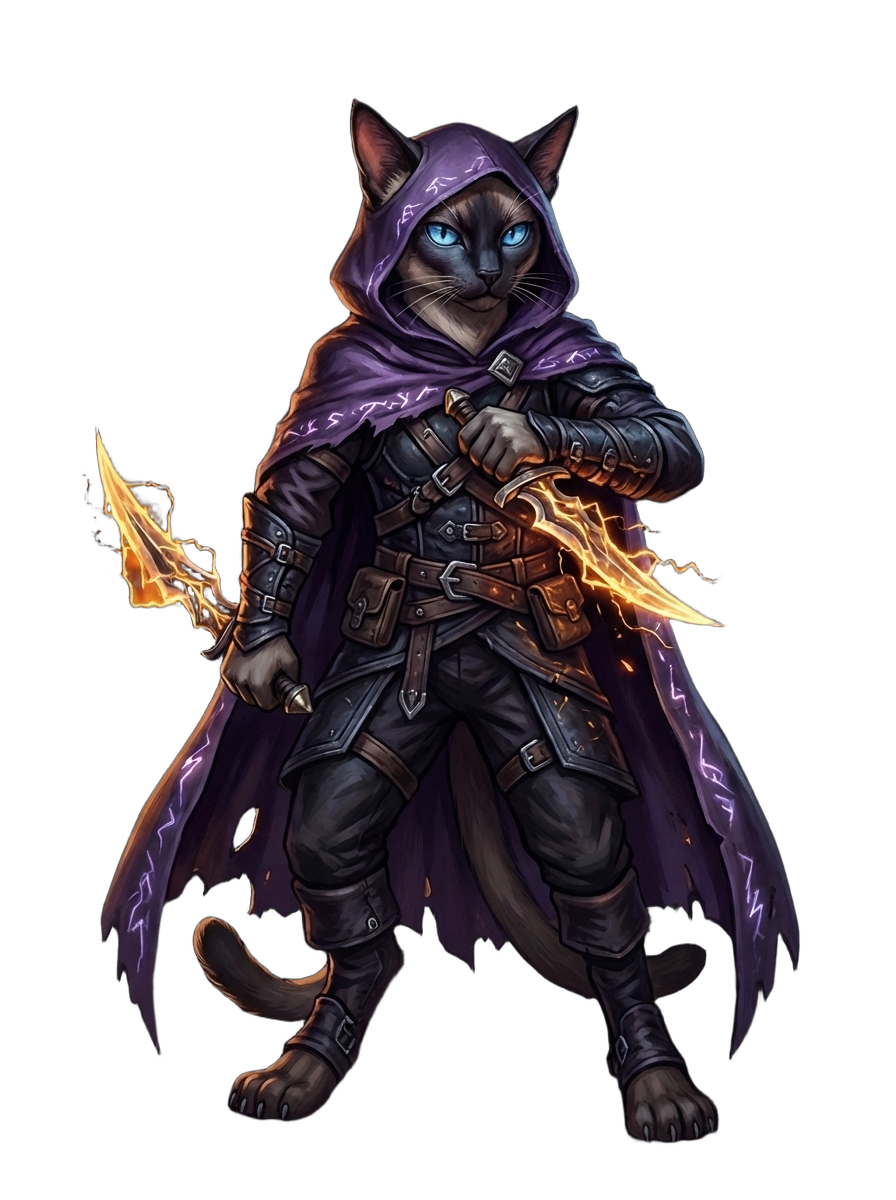
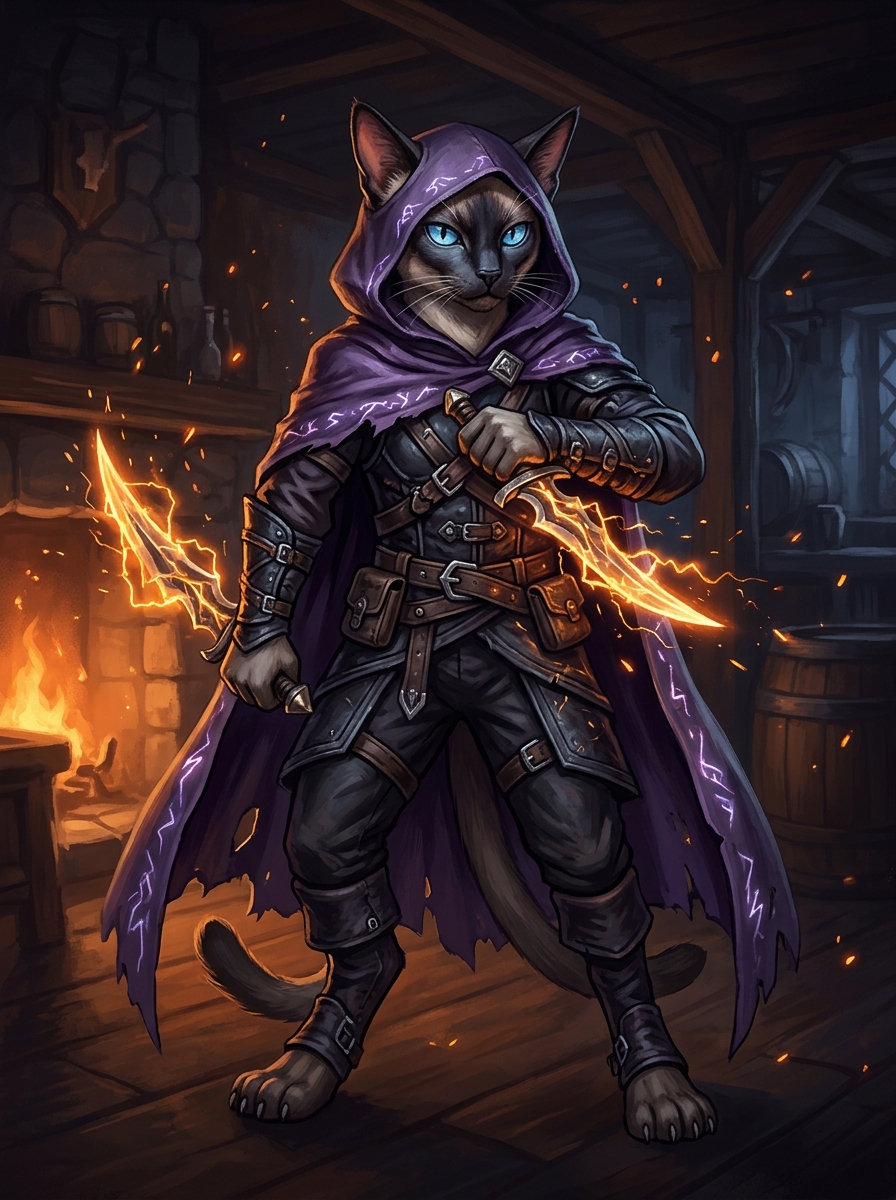
fix(hud): cat cutouts only in live battle (D-037)
Restore studio-background portraits for forms/lobby/load. Keep RGBA
cutouts under cat-heroes/battle/ and wire them only through
catHeroBattleArt on fight HUD. Lock the rule in DECISION-LOG + §6.

diff --git a/client/web-hud/public/app.js b/client/web-hud/public/app.js
@@ -2727,7 +2727,10 @@ const CAT_SHEET_NAMES = {
   shop_support_water_b: "Прилив силы",
 };
 
-/** Full-body portraits — wiki §1.0 / media/cat-heroes (12/12). */
+/**
+ * Full-body portraits — wiki §1.0 / media/cat-heroes (12/12).
+ * Default path keeps studio background (forms/lobby/load). Battle cutouts: D-037.
+ */
 const CAT_HERO_ART = {
   shop_tank_stone_a: "/stitch-assets/cat-heroes/tank-a.png",
   shop_tank_stone_b: "/stitch-assets/cat-heroes/tank-b.png",
@@ -2744,6 +2747,25 @@ const CAT_HERO_ART = {
   starter_tank_stone: "/stitch-assets/cat-heroes/tank-a.png",
   starter_fighter_fire: "/stitch-assets/cat-heroes/fighter-a.png",
   starter_support_water: "/stitch-assets/cat-heroes/support-a.png",
+};
+
+/** Transparent cutouts — ONLY live fight HUD (practice_fight / pvp_fight / battle). D-037. */
+const CAT_HERO_BATTLE_ART = {
+  shop_tank_stone_a: "/stitch-assets/cat-heroes/battle/tank-a.png",
+  shop_tank_stone_b: "/stitch-assets/cat-heroes/battle/tank-b.png",
+  shop_fighter_fire_a: "/stitch-assets/cat-heroes/battle/fighter-a.png",
+  shop_fighter_fire_b: "/stitch-assets/cat-heroes/battle/fighter-b.png",
+  shop_assassin_bolt_a: "/stitch-assets/cat-heroes/battle/assassin-a.png",
+  shop_assassin_bolt_b: "/stitch-assets/cat-heroes/battle/assassin-b.png",
+  shop_ranger_grass_a: "/stitch-assets/cat-heroes/battle/ranger-a.png",
+  shop_ranger_grass_b: "/stitch-assets/cat-heroes/battle/ranger-b.png",
+  shop_mage_fire_a: "/stitch-assets/cat-heroes/battle/mage-a.png",
+  shop_mage_ice_b: "/stitch-assets/cat-heroes/battle/mage-b.png",
+  shop_support_water_a: "/stitch-assets/cat-heroes/battle/support-a.png",
+  shop_support_water_b: "/stitch-assets/cat-heroes/battle/support-b.png",
+  starter_tank_stone: "/stitch-assets/cat-heroes/battle/tank-a.png",
+  starter_fighter_fire: "/stitch-assets/cat-heroes/battle/fighter-a.png",
+  starter_support_water: "/stitch-assets/cat-heroes/battle/support-a.png",
 };
 
 const CAT_HERO_BLURB = {
@@ -2763,6 +2785,11 @@ const CAT_HERO_BLURB = {
 
 function catHeroArt(templateId) {
   return CAT_HERO_ART[templateId] || null;
+}
+
+/** No-background sprite for live battle boards only (D-037). */
+function catHeroBattleArt(templateId) {
+  return CAT_HERO_BATTLE_ART[templateId] || catHeroArt(templateId);
 }
 const HOME_SLOT_PIN = {
   helm: "is-tl",
@@ -6094,10 +6121,14 @@ function renderPracticeFight() {
       if (!u) return;
       const tid = unitTemplateId(u);
       const hero = practiceHeroByTemplate(tid);
-      const art = catHeroArt(tid);
+      const art = catHeroBattleArt(tid);
       if (img && art) {
         img.src = art;
         img.alt = hero?.name || tid;
+      }
+      if (img) {
+        img.classList.add("mf-battle-cutout");
+        card.classList.add("mf-battle-unit--cutout");
       }
       if (nameEl) nameEl.textContent = hero?.short || CAT_SHEET_NAMES[tid] || tid;
       const seeSh = canSeeUnitShield(u);
@@ -6199,15 +6230,15 @@ function pvpUnitCard(u, foe, cleansedIds = []) {
   const element = CAT_ELEMENT_RU[u.element] || u.element || "";
   const name = catSheetName({ templateId: unitTemplateId(u), catId: u.id });
   const pct = u.maxHp > 0 ? Math.max(0, Math.min(100, (u.hp / u.maxHp) * 100)) : 0;
-  const art = catHeroArt(unitTemplateId(u)) || catHeroArt(u.id);
+  const art = catHeroBattleArt(unitTemplateId(u)) || catHeroBattleArt(u.id);
   const seeSh = canSeeUnitShield(u);
   const hpLine = u.alive
     ? seeSh && u.shield > 0
       ? `${u.hp} / ${u.maxHp} +${u.shield}`
       : `${u.hp} / ${u.maxHp}`
     : "КОТИК ОТДЫХАЕТ";
-  li.className = u.alive ? "" : "mf-unit-dead";
-  li.innerHTML = `${art ? `<figure class="mf-unit-frame"><img alt="" src="${art}" class="${u.alive ? "" : "mf-unit-dim"}"/><div class="mf-fatality" ${u.alive ? "hidden" : ""}><span>КОТИК ОТДЫХАЕТ</span></div><div class="mf-status-row">${statusIconsHtml(u.alive ? unitStatusList(u) : [], { cleansed: cleansedIds })}</div></figure>` : ""}<div><b>${name}</b><small>${element}${role ? " · " + role : ""}</small><em class="${u.alive ? "" : "mf-fatality-inline"}">${hpLine}</em><div class="mf-bars"><div class="mf-bar mf-bar--hp"><i style="width:${pct}%"></i></div>${seeSh && u.shield > 0 && u.alive ? `<div class="mf-bar mf-bar--shield"><i style="width:${Math.min(100, (u.shield / Math.max(u.maxHp, 1)) * 100)}%"></i></div>` : ""}</div></div>`;
+  li.className = (u.alive ? "" : "mf-unit-dead") + " mf-battle-unit--cutout";
+  li.innerHTML = `${art ? `<figure class="mf-unit-frame"><img alt="" src="${art}" class="mf-battle-cutout ${u.alive ? "" : "mf-unit-dim"}"/><div class="mf-fatality" ${u.alive ? "hidden" : ""}><span>КОТИК ОТДЫХАЕТ</span></div><div class="mf-status-row">${statusIconsHtml(u.alive ? unitStatusList(u) : [], { cleansed: cleansedIds })}</div></figure>` : ""}<div><b>${name}</b><small>${element}${role ? " · " + role : ""}</small><em class="${u.alive ? "" : "mf-fatality-inline"}">${hpLine}</em><div class="mf-bars"><div class="mf-bar mf-bar--hp"><i style="width:${pct}%"></i></div>${seeSh && u.shield > 0 && u.alive ? `<div class="mf-bar mf-bar--shield"><i style="width:${Math.min(100, (u.shield / Math.max(u.maxHp, 1)) * 100)}%"></i></div>` : ""}</div></div>`;
   if (foe) li.dataset.foe = "1";
   return li;
 }

diff --git a/client/web-hud/public/styles.css b/client/web-hud/public/styles.css
@@ -760,6 +760,22 @@ body.mythfel-login .mythfel-logout {
 .mf-bar--hp i { background: linear-gradient(90deg, #4caf7a, #89d98c); }
 .mf-bar--shield i { background: linear-gradient(90deg, #5b8def, #9ec1ff); }
 .mf-unit-frame { position: relative; }
+/* D-037: transparent cutouts only on live fight boards (not lobby/forms). */
+.mf-battle-unit--cutout .mf-unit-frame,
+#viewPracticeFight .mf-battle-unit--cutout,
+#viewPvpFight .mf-battle-unit--cutout {
+  background: transparent !important;
+}
+.mf-battle-cutout,
+#viewPracticeFight img.mf-battle-cutout,
+#viewPvpFight img.mf-battle-cutout,
+#viewPracticeFight .mf-battle-unit--cutout img,
+#viewPvpFight .mf-battle-unit--cutout img {
+  object-fit: contain !important;
+  object-position: center bottom !important;
+  background: transparent !important;
+  border-radius: 0 !important;
+}
 .mf-unit-dim { filter: brightness(0.35) grayscale(0.8); }
 .mf-fatality {
   position: absolute;

diff --git a/docs/DECISION-LOG.md b/docs/DECISION-LOG.md
@@ -34,6 +34,23 @@ Append-only. Новые записи — **сверху** (после шабло
 
 ---
 
+## D-037 · 2026-11-17 · Cat-hero без фона только в live-бою
+
+- **Status:** Accepted
+- **Area:** hud
+- **SSOT:** docs/FULL-SPEC.md §6 (презентация); none (механика боя)
+- **Owner:** Andrew / web-hud (MF-148)
+
+### Context
+Полноростовые портреты героев пришли с чёрным студийным фоном. Cutout (прозрачный PNG) нужен, чтобы котик стоял на арене в бою. Если тем же cutout кормить heroes / collection / home / lobby / load — ломается «карточка с фоном как была».
+
+### Decision
+**Без фона (RGBA cutout) — только в live-режиме боя:** `practice_fight`, `pvp_fight`, `battle` (и аналогичные fight HUD). Путь: `/stitch-assets/cat-heroes/battle/{slug}.png` через `catHeroBattleArt()`.  
+**Все остальные формы** (heroes, collection, home/hero, practice lobby, load, victory, inspector…) — портреты **с фоном** из `/stitch-assets/cat-heroes/{slug}.png` через `catHeroArt()`. Не подменять дефолтный путь cutout’ом.
+
+### Consequences
+Два набора ассетов на героя. Новые экраны по умолчанию берут art **с фоном**, пока явно не fight HUD. Меню/orientGate не затрагиваются (`D-025`, `D-036`).
+
 ## D-036 · 2026-11-17 · Web HUD телефон = только landscape
 
 - **Status:** Accepted

diff --git a/docs/cat-heroes/README.md b/docs/cat-heroes/README.md
@@ -1,9 +1,18 @@
 # Портреты 12 героев (полнорост)
 
 SSOT имён/ролей: `docs/game-wiki.md` §1.  
-HUD path: `/stitch-assets/cat-heroes/{slug}.png`  
-Project store mirror: `media/cat-heroes/`.  
-Формат: PNG с **прозрачным фоном** (не card plate). На загрузке боя (practice / PvP) стоят как полноростовые фигуры на арене — MF-148.
+HUD path (с фоном): `/stitch-assets/cat-heroes/{slug}.png`  
+HUD path (**без фона, только бой**): `/stitch-assets/cat-heroes/battle/{slug}.png` — `D-037`  
+Project store mirror: `media/cat-heroes/` (+ `battle/`).
+
+## Правило арта (`D-037`)
+
+| Где | Какой файл | API |
+|---|---|---|
+| Live бой (`practice_fight` / `pvp_fight` / `battle`) | `battle/{slug}.png` (RGBA cutout) | `catHeroBattleArt()` |
+| Все остальные формы (heroes, collection, home, lobby, load, victory…) | `{slug}.png` (студийный фон) | `catHeroArt()` |
+
+Не класть cutout в дефолтный путь — иначе сломаются карточки вне боя.
 
 ## Ready (12/12)
 
@@ -22,4 +31,4 @@ Project store mirror: `media/cat-heroes/`.
 | `support-a.png` | Саппорт A «Чистый родник» | `shop_support_water_a` |
 | `support-b.png` | Саппорт B «Прилив силы» | `shop_support_water_b` |
 
-Wired into: wiki §1.0 · `heroes` · `collection` · `/hero` (`home`).
+Wired into: wiki §1.0 · `heroes` · `collection` · `/hero` (`home`) · fight HUD (`D-037`).

diff --git a/docs/FULL-SPEC.md b/docs/FULL-SPEC.md
@@ -313,7 +313,7 @@ Server validates all purchases.
 7f. `Guild` + `GuildBattle` (GvG 3–12; SL: entry + tip, §4.5)  
 8. `Pass` (×2 XP + rank boxes + autofarm perk copy when ACTIVE)  
 8b. `Farm` Soon sheet — expanded zones incl. fishing + autofarm toggles (gated / stub; §4.4)  
-9. `Battle` HUD: board 3+3, hand, energy, milk, keep, end turn, potion tray; статусы/щит/смерть — §3.5 + `D-032`; **ход противника (VFX, все режимы):** 6 карт атаки **рубашкой** к игроку (сброс/бросок), затем карты исчезают — без раскрытия руки соперника
+9. `Battle` HUD: board 3+3, hand, energy, milk, keep, end turn, potion tray; статусы/щит/смерть — §3.5 + `D-032`; **ход противника (VFX, все режимы):** 6 карт атаки **рубашкой** к игроку (сброс/бросок), затем карты исчезают — без раскрытия руки соперника. **Презентация героев (`D-037`):** на live-борде (`battle` / `practice_fight` / `pvp_fight`) — полнорост **без фона** (cutout); на всех прочих формах — портрет **с фоном**
 
 10. `Result` + rewards  
 11. `ReplayList` (10)  

diff --git a/docs/skills/web-hud.md b/docs/skills/web-hud.md
@@ -6,6 +6,7 @@
 - IA/nav: `docs/nav-ia.md`; yard/trade layout — prefs (full-bleed map, hover plaques, trade plaza hub).
 - **Меню locked:** при замене форм не менять `#appNav` / `#appSubTabs` / `NAV` (`D-025`, `D-033`, `D-029`).
 - **Phone:** только landscape + rotate gate (`D-036`). Portrait-first UI запрещён. CSS/gate owner = **MF-145** — не дублировать, пока задача открыта.
+- **Cat art (`D-037`):** без фона (`/stitch-assets/cat-heroes/battle/` + `catHeroBattleArt`) — **только** live fight HUD. На остальных формах — портреты с фоном (`catHeroArt`).
 - Загрузка новых дизайнов экранов → скилл `docs/skills/hud-design-load.md`.
 - Stitch assets: потребляй уже импортированное; полный реимпорт/zip → роль `stitch`.
 - Один bring-up / smoke за раз; не плодить параллельные Acceptance/Soft-launch HUD агенты.

diff --git a/docs/cat-heroes/battle/README.md b/docs/cat-heroes/battle/README.md
@@ -1,0 +1,4 @@
+# Battle cutouts (no background)
+
+RGBA PNGs for **live fight HUD only** (`D-037`).  
+Do not use these on lobby / collection / home / load — those keep studio-background portraits one level up.

diff --git a/client/web-hud/public/stitch-assets/cat-heroes/battle/README.md b/client/web-hud/public/stitch-assets/cat-heroes/battle/README.md
@@ -1,0 +1,4 @@
+# Battle cutouts — D-037
+
+Transparent PNGs for live fight HUD only (`practice_fight` / `pvp_fight` / `battle`).  
+Parent folder portraits keep studio background for all other forms.
